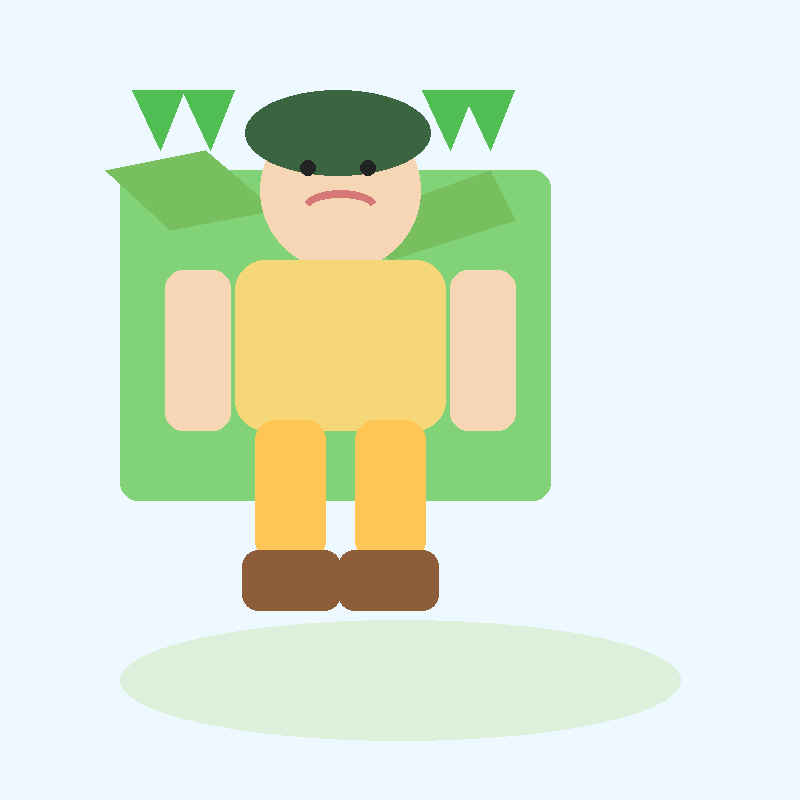
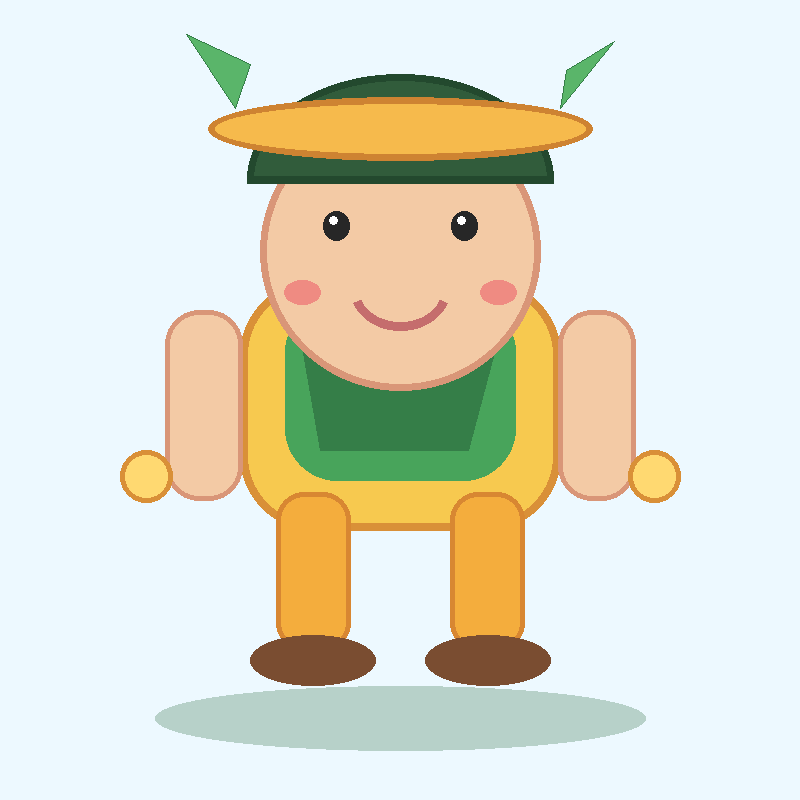
Refresh hero variants and Photoshop asset exports

diff --git a/index.html b/index.html
@@ -36,7 +36,7 @@
           <button id="backBtn" class="icon-button" aria-label="Back to home">×</button>
         </div>
         <div class="lobby-card">
-          <img src="assets/hero-transparent.png" alt="Selected farmer" />
+          <img src="assets/hero-variant.png" alt="Selected farmer alternate outfit" />
           <div>
             <p class="eyebrow">YOUR FARMER</p>
             <h3>Sprout Scout</h3>
@@ -100,6 +100,10 @@
         <article class="asset-card">
           <h4>Hero Character</h4>
           <img src="assets/hero.png" alt="Farming hero character" />
+        </article>
+        <article class="asset-card">
+          <h4>Hero Variant</h4>
+          <img src="assets/hero-variant.png" alt="Farming hero alternate outfit" />
         </article>
         <article class="asset-card">
           <h4>Gameplay Screen</h4>

diff --git a/generate_final_assets.py b/generate_final_assets.py
@@ -1,123 +1,179 @@
 from pathlib import Path
 from PIL import Image, ImageDraw
 
-root = Path(__file__).resolve().parent
-out_dir = root / 'assets'
-out_dir.mkdir(exist_ok=True)
+ROOT = Path(__file__).resolve().parent
+ASSETS = ROOT / "assets"
+ASSETS.mkdir(exist_ok=True)
+
+
+def hero_art():
+    image = Image.new("RGBA", (800, 800), (0, 0, 0, 0))
+    draw = ImageDraw.Draw(image)
+
+    draw.ellipse((155, 686, 645, 750), fill=(39, 104, 57, 70))
+    draw.rounded_rectangle((240, 280, 560, 530), radius=75, fill="#f7c94f", outline="#d99038", width=8)
+    draw.rounded_rectangle((285, 300, 515, 480), radius=52, fill="#48a45b")
+    draw.polygon([(300, 336), (380, 380), (500, 330), (468, 450), (320, 450)], fill="#357e48")
+
+    draw.rounded_rectangle((165, 310, 242, 500), radius=34, fill="#f3caa5", outline="#d99678", width=5)
+    draw.rounded_rectangle((558, 310, 635, 500), radius=34, fill="#f3caa5", outline="#d99678", width=5)
+    draw.rounded_rectangle((276, 492, 350, 650), radius=28, fill="#f4ad3d", outline="#d88732", width=5)
+    draw.rounded_rectangle((450, 492, 524, 650), radius=28, fill="#f4ad3d", outline="#d88732", width=5)
+    draw.ellipse((250, 635, 375, 685), fill="#7a4d31")
+    draw.ellipse((425, 635, 550, 685), fill="#7a4d31")
+
+    draw.ellipse((260, 112, 540, 390), fill="#f3caa5", outline="#d99678", width=7)
+    draw.pieslice((247, 74, 553, 285), 180, 360, fill="#315c3b", outline="#23492e", width=7)
+    draw.ellipse((208, 97, 592, 160), fill="#f6ba4c", outline="#ce8332", width=7)
+    draw.polygon([(235, 108), (186, 34), (250, 64)], fill="#5ab56a", outline="#357e48")
+    draw.polygon([(560, 108), (614, 41), (566, 70)], fill="#5ab56a", outline="#357e48")
+    draw.ellipse((323, 211, 349, 240), fill="#272727")
+    draw.ellipse((451, 211, 477, 240), fill="#272727")
+    draw.ellipse((329, 216, 337, 224), fill="#ffffff")
+    draw.ellipse((457, 216, 465, 224), fill="#ffffff")
+    draw.arc((350, 247, 450, 330), 20, 160, fill="#c56d6d", width=9)
+    draw.ellipse((284, 280, 320, 304), fill="#ef8b82")
+    draw.ellipse((480, 280, 516, 304), fill="#ef8b82")
+    draw.ellipse((120, 450, 172, 502), fill="#ffd971", outline="#d99038", width=5)
+    draw.ellipse((628, 450, 680, 502), fill="#ffd971", outline="#d99038", width=5)
+    return image
 
 
 def draw_hero(path):
-    img = Image.new('RGBA', (800, 800), '#edf9ff')
-    d = ImageDraw.Draw(img)
-    d.ellipse((120, 620, 680, 740), fill=(220, 240, 220, 255))
-    d.rounded_rectangle((120, 170, 550, 500), radius=18, fill=(130, 210, 120, 255))
-    d.polygon([(170, 230), (105, 170), (205, 150), (275, 210)], fill=(120, 192, 95, 255))
-    d.polygon([(350, 220), (490, 170), (515, 220), (390, 260)], fill=(120, 192, 95, 255))
-    d.ellipse((260, 110, 420, 270), fill=(247, 214, 181, 255))
-    d.ellipse((245, 90, 430, 175), fill=(58, 101, 64, 255))
-    d.ellipse((300, 160, 315, 175), fill=(35, 35, 35, 255))
-    d.ellipse((360, 160, 375, 175), fill=(35, 35, 35, 255))
-    d.arc((302, 190, 378, 225), start=200, end=340, fill=(214, 120, 120, 255), width=8)
-    d.rounded_rectangle((235, 260, 445, 430), radius=30, fill=(245, 215, 120, 255))
-    d.rounded_rectangle((165, 270, 230, 430), radius=18, fill=(247, 214, 181, 255))
-    d.rounded_rectangle((450, 270, 515, 430), radius=18, fill=(247, 214, 181, 255))
-    d.rounded_rectangle((255, 420, 325, 560), radius=20, fill=(255, 198, 86, 255))
-    d.rounded_rectangle((355, 420, 425, 560), radius=20, fill=(255, 198, 86, 255))
-    d.rounded_rectangle((242, 550, 340, 610), radius=16, fill=(141, 94, 57, 255))
-    d.rounded_rectangle((338, 550, 438, 610), radius=16, fill=(141, 94, 57, 255))
-    for x in [160, 210, 450, 490]:
-        d.polygon([(x, 150), (x - 28, 90), (x + 24, 90)], fill=(80, 190, 82, 255))
-    img.save(path)
+    image = Image.new("RGBA", (800, 800), "#edf9ff")
+    art = hero_art()
+    image.alpha_composite(art)
+    image.save(path)
+
+
+def draw_hero_variant(path):
+    image = hero_art()
+    draw = ImageDraw.Draw(image)
+    # Alternate harvest pose: raised watering can and blue apron accent.
+    draw.rounded_rectangle((544, 270, 690, 315), radius=18, fill="#f3caa5", outline="#d99678", width=6)
+    draw.rounded_rectangle((625, 210, 700, 282), radius=16, fill="#69c8ff", outline="#438fb7", width=6)
+    draw.rectangle((644, 184, 684, 218), fill="#d5f5ff", outline="#438fb7", width=5)
+    draw.line((633, 215, 600, 170), fill="#438fb7", width=9)
+    draw.rounded_rectangle((290, 312, 510, 470), radius=48, fill="#4d9dc0")
+    draw.rounded_rectangle((320, 330, 480, 455), radius=36, fill="#2e6f8c")
+    image.save(path)
 
 
 def draw_gameplay(path):
-    img = Image.new('RGBA', (1200, 800), '#dff8ff')
-    d = ImageDraw.Draw(img)
-    d.ellipse((930, 70, 1055, 200), fill=(255, 232, 138, 255))
-    for c in [(120, 110, 170, 150), (260, 140, 360, 185), (820, 130, 930, 175)]:
-        d.ellipse(c, fill=(255, 255, 255, 180))
-    d.rectangle((0, 520, 1200, 800), fill=(116, 196, 110, 255))
-    d.rounded_rectangle((60, 70, 1140, 710), radius=28, fill=(255, 255, 255, 120))
-    d.rounded_rectangle((90, 96, 350, 218), radius=18, fill=(255, 250, 244, 220))
-    d.rounded_rectangle((105, 120, 220, 200), radius=12, fill=(247, 214, 168, 255))
-    d.rounded_rectangle((228, 137, 312, 156), radius=5, fill=(205, 175, 232, 255))
-    d.rounded_rectangle((228, 165, 322, 184), radius=5, fill=(195, 240, 166, 255))
-    d.rounded_rectangle((228, 194, 305, 213), radius=5, fill=(154, 215, 255, 255))
+    image = Image.new("RGBA", (1200, 800), "#cfefff")
+    draw = ImageDraw.Draw(image)
+    draw.ellipse((990, 44, 1115, 169), fill="#ffe28a")
+    for x, y, w, h in [(90, 112, 170, 48), (300, 146, 210, 55), (860, 120, 230, 54)]:
+        draw.ellipse((x, y, x + w, y + h), fill=(255, 255, 255, 190))
+        draw.ellipse((x + 42, y - 18, x + w - 20, y + h + 18), fill=(255, 255, 255, 190))
+    draw.polygon([(0, 480), (170, 380), (390, 475), (620, 390), (850, 475), (1060, 380), (1200, 450), (1200, 800), (0, 800)], fill="#b9df83")
+    draw.rectangle((0, 535, 1200, 800), fill="#69b867")
 
-    x, y = 470, 250
-    d.ellipse((x + 85, y + 80, x + 260, y + 250), fill=(247, 214, 181, 255))
-    d.ellipse((x + 95, y + 40, x + 250, y + 150), fill=(58, 101, 64, 255))
-    d.ellipse((x + 124, y + 110, x + 138, y + 124), fill=(30, 30, 30, 255))
-    d.ellipse((x + 160, y + 110, x + 174, y + 124), fill=(30, 30, 30, 255))
-    d.arc((x + 128, y + 138, x + 170, y + 175), start=200, end=340, fill=(211, 134, 122, 255), width=8)
-    d.rounded_rectangle((x + 105, y + 220, x + 245, y + 370), radius=30, fill=(245, 215, 120, 255))
-    d.rounded_rectangle((x + 80, y + 230, x + 110, y + 440), radius=15, fill=(247, 214, 181, 255))
-    d.rounded_rectangle((x + 240, y + 230, x + 270, y + 440), radius=15, fill=(247, 214, 181, 255))
-    d.rounded_rectangle((x + 105, y + 370, x + 170, y + 470), radius=18, fill=(255, 198, 86, 255))
-    d.rounded_rectangle((x + 180, y + 370, x + 245, y + 470), radius=18, fill=(255, 198, 86, 255))
-    for px, py in [(590, 255), (760, 255), (960, 255), (1100, 270)]:
-        d.rectangle((px, py, px + 120, py + 80), fill=(112, 176, 120, 255))
-    d.rounded_rectangle((900, 330, 1060, 560), radius=16, fill=(255, 249, 238, 220))
-    d.rounded_rectangle((915, 350, 1045, 430), radius=16, fill=(215, 239, 221, 255))
-    d.ellipse((948, 385, 1012, 450), fill=(255, 215, 105, 255))
-    d.rectangle((920, 455, 1042, 474), fill=(154, 215, 255, 255))
-    d.rectangle((920, 485, 1014, 504), fill=(244, 199, 209, 255))
-    d.rectangle((920, 515, 1002, 534), fill=(194, 232, 167, 255))
-    img.save(path)
+    draw.rounded_rectangle((48, 42, 1152, 758), radius=34, fill=(255, 255, 255, 66), outline="#ffffff", width=4)
+    draw.rounded_rectangle((78, 75, 340, 235), radius=24, fill="#fff9ee", outline="#ead5b3", width=4)
+    draw.text((102, 92), "HARVEST RUN", fill="#1d6c35")
+    draw.ellipse((104, 139, 191, 226), fill="#ffd56e")
+    draw.rectangle((217, 137, 304, 155), fill="#e0b0df")
+    draw.rectangle((217, 174, 320, 192), fill="#bfe69a")
+    draw.rectangle((217, 211, 290, 229), fill="#9ad7ff")
+
+    hero = hero_art()
+    hero.thumbnail((340, 470))
+    image.alpha_composite(hero, (435, 188))
+    for px, py in [(710, 315), (875, 350), (1030, 292)]:
+        draw.rounded_rectangle((px, py, px + 120, py + 75), radius=18, fill="#8b5a35")
+        draw.ellipse((px + 22, py - 20, px + 55, py + 20), fill="#6eb35d")
+        draw.ellipse((px + 66, py - 20, px + 99, py + 20), fill="#6eb35d")
+
+    draw.rounded_rectangle((875, 495, 1080, 680), radius=22, fill="#fff9ee", outline="#ead5b3", width=4)
+    draw.text((900, 518), "MISSION", fill="#b21a5d")
+    draw.text((900, 555), "Harvest Run", fill="#1d6c35")
+    draw.text((900, 590), "Collect 10 items", fill="#5d5d5d")
+    draw.rounded_rectangle((900, 625, 1048, 654), radius=12, fill="#f6c95a")
+    draw.text((929, 631), "START", fill="#543a24")
+    image.save(path)
 
 
 def draw_background(path):
-    img = Image.new('RGBA', (1400, 800), '#dff9ff')
-    d = ImageDraw.Draw(img)
-    d.ellipse((1150, 70, 1290, 210), fill=(255, 233, 154, 255))
-    for x, y, w, h in [(130, 120, 200, 60), (300, 140, 260, 70), (980, 150, 230, 70)]:
-        d.ellipse((x, y, x + w, y + h), fill=(255, 255, 255, 200))
-        d.ellipse((x + 40, y - 18, x + w + 30, y + 60), fill=(255, 255, 255, 200))
-    d.polygon([(0, 520), (180, 420), (420, 520), (580, 440), (830, 520), (1030, 420), (1400, 520), (1400, 800), (0, 800)], fill=(190, 230, 136, 255))
-    d.polygon([(0, 640), (180, 560), (420, 620), (760, 700), (1000, 630), (1400, 520), (1400, 800), (0, 800)], fill=(120, 185, 110, 255))
-    for x in [160, 420, 640, 930, 1200]:
-        d.rectangle((x, 620, x + 80, 710), fill=(141, 94, 57, 255))
-        d.rectangle((x - 20, 560, x + 100, 620), fill=(120, 185, 110, 255))
-        for i in range(5):
-            d.line((x + 10 + i * 15, 610, x + 10 + i * 15, 560), fill=(93, 145, 73, 255), width=6)
-    for x in [150, 760]:
-        d.rectangle((x, 350, x + 190, 530), fill=(252, 232, 210, 255))
-        d.polygon([(x, 350), (x + 95, 280), (x + 190, 350)], fill=(122, 185, 84, 255))
-        for bx in [x + 40, x + 120]:
-            d.rectangle((bx, 430, bx + 30, 500), fill=(140, 207, 255, 255))
-    img.save(path)
+    image = Image.new("RGBA", (1400, 800), "#d9f5ff")
+    draw = ImageDraw.Draw(image)
+    draw.ellipse((1135, 62, 1285, 212), fill="#ffe49a")
+    for x, y, w, h in [(100, 108, 180, 55), (340, 145, 235, 64), (930, 122, 250, 58)]:
+        draw.ellipse((x, y, x + w, y + h), fill=(255, 255, 255, 185))
+        draw.ellipse((x + 35, y - 20, x + w - 25, y + h + 20), fill=(255, 255, 255, 185))
+    draw.polygon([(0, 475), (180, 350), (380, 470), (600, 340), (830, 460), (1050, 350), (1400, 470), (1400, 800), (0, 800)], fill="#c0e58d")
+    draw.polygon([(0, 615), (210, 520), (440, 595), (740, 500), (980, 610), (1230, 510), (1400, 555), (1400, 800), (0, 800)], fill="#76be6a")
+    draw.rectangle((0, 690, 1400, 800), fill="#559e5b")
+
+    for x in [150, 920]:
+        draw.rectangle((x, 300, x + 190, 500), fill="#fff1d7", outline="#d39158", width=6)
+        draw.polygon([(x - 18, 305), (x + 95, 220), (x + 208, 305)], fill="#d56e54", outline="#9c4b43")
+        for bx in [x + 35, x + 120]:
+            draw.rounded_rectangle((bx, 380, bx + 40, 450), radius=5, fill="#9ad7ff", outline="#467b81", width=4)
+        draw.rectangle((x + 80, 428, x + 112, 500), fill="#a06b3d")
+
+    for x in [80, 330, 585, 820, 1080, 1280]:
+        draw.ellipse((x, 594, x + 60, 660), fill="#6cc260")
+        draw.ellipse((x + 40, 580, x + 108, 660), fill="#77cc68")
+        draw.line((x + 42, 650, x + 42, 720), fill="#4d8f48", width=8)
+        draw.line((x + 70, 650, x + 70, 720), fill="#4d8f48", width=8)
+    image.save(path)
 
 
 def draw_items(path):
-    img = Image.new('RGBA', (1200, 500), '#f9faf1')
-    d = ImageDraw.Draw(img)
-    for x, y, t in [(90, 0, 'carrot'), (350, 0, 'tomato'), (610, 0, 'hammer'), (870, 0, 'water')]:
-        d.ellipse((x, y, x + 220, y + 220), fill=(234, 247, 234, 255))
-        if t == 'carrot':
-            d.polygon([(x + 110, y + 30), (x + 150, y + 130), (x + 110, y + 200), (x + 70, y + 130)], fill=(255, 143, 79, 255))
-            d.line((x + 110, y + 70, x + 110, y + 180), fill=(80, 180, 90, 255), width=10)
-            d.line((x + 75, y + 100, x + 145, y + 110), fill=(80, 180, 90, 255), width=10)
-        elif t == 'tomato':
-            d.ellipse((x + 60, y + 40, x + 160, y + 160), fill=(239, 90, 81, 255))
-            d.line((x + 110, y + 20, x + 110, y + 170), fill=(80, 180, 90, 255), width=8)
-        elif t == 'hammer':
-            d.rectangle((x + 80, y + 80, x + 140, y + 170), fill=(199, 165, 74, 255))
-            d.rectangle((x + 120, y + 70, x + 160, y + 150), fill=(150, 120, 50, 255))
-            d.line((x + 100, y + 170, x + 110, y + 250), fill=(90, 80, 70, 255), width=12)
-        elif t == 'water':
-            d.rounded_rectangle((x + 75, y + 60, x + 145, y + 200), radius=18, fill=(110, 200, 255, 255))
-            d.rectangle((x + 95, y + 25, x + 125, y + 60), fill=(214, 245, 255, 255))
-    img.save(path)
+    image = Image.new("RGBA", (1200, 500), "#f9faf1")
+    draw = ImageDraw.Draw(image)
+    for x, label, color in [(100, "CARROT", "#ff984c"), (360, "TOMATO", "#ef5a51"), (620, "HAMMER", "#c7a54a"), (880, "WATER", "#69c8ff")]:
+        draw.ellipse((x, 48, x + 210, 258), fill="#e8f6e8", outline="#c9e6c3", width=5)
+        if label == "CARROT":
+            draw.polygon([(x + 105, 75), (x + 145, 170), (x + 105, 235), (x + 65, 170)], fill=color)
+            draw.line((x + 105, 105, x + 105, 215), fill="#4ea85a", width=12)
+            draw.line((x + 75, 130, x + 137, 145), fill="#4ea85a", width=10)
+        elif label == "TOMATO":
+            draw.ellipse((x + 62, 84, x + 164, 188), fill=color)
+            draw.line((x + 113, 65, x + 113, 96), fill="#4ea85a", width=10)
+        elif label == "HAMMER":
+            draw.rectangle((x + 78, 110, x + 140, 190), fill="#c7a54a")
+            draw.rectangle((x + 126, 90, x + 180, 140), fill="#8a5d2e")
+            draw.line((x + 108, 185, x + 108, 245), fill="#8a5d2e", width=14)
+        else:
+            draw.rounded_rectangle((x + 70, 100, x + 155, 230), radius=18, fill=color)
+            draw.rectangle((x + 96, 72, x + 130, 105), fill="#d5f5ff")
+        draw.text((x + 46, 300), label, fill="#1d6c35")
+    image.save(path)
+
+
+def draw_transparent_collectible(path, kind):
+    image = Image.new("RGBA", (360, 360), (0, 0, 0, 0))
+    draw = ImageDraw.Draw(image)
+    draw.ellipse((25, 275, 335, 335), fill=(39, 104, 57, 60))
+    if kind == "carrot":
+        draw.polygon([(180, 62), (246, 194), (180, 280), (114, 194)], fill="#ff984c", outline="#d96d35")
+        draw.line((180, 96, 180, 242), fill="#4ea85a", width=16)
+        draw.line((130, 132, 225, 153), fill="#4ea85a", width=13)
+    elif kind == "tomato":
+        draw.ellipse((82, 76, 278, 275), fill="#ef5a51", outline="#c74243", width=7)
+        draw.polygon([(180, 68), (205, 101), (246, 90), (224, 130), (180, 112), (137, 130), (114, 90), (155, 101)], fill="#4ea85a")
+    elif kind == "hammer":
+        draw.rounded_rectangle((132, 95, 224, 220), radius=16, fill="#c7a54a", outline="#8a5d2e", width=7)
+        draw.rounded_rectangle((198, 65, 292, 140), radius=18, fill="#8a5d2e", outline="#5d3d29", width=7)
+        draw.line((178, 207, 178, 292), fill="#8a5d2e", width=18)
+    else:
+        draw.rounded_rectangle((112, 82, 248, 284), radius=30, fill="#69c8ff", outline="#438fb7", width=8)
+        draw.rectangle((150, 38, 210, 88), fill="#d5f5ff", outline="#438fb7", width=7)
+        draw.ellipse((150, 132, 185, 167), fill="#ffffff", outline="#438fb7", width=5)
+    image.save(path)
 
 
 def main():
-    draw_hero(out_dir / 'hero.png')
-    draw_gameplay(out_dir / 'gameplay.png')
-    draw_background(out_dir / 'background.png')
-    draw_items(out_dir / 'items.png')
-    print('Created assets:')
-    for p in sorted(out_dir.iterdir()):
-        print(' -', p.name)
+    draw_hero(ASSETS / "hero.png")
+    draw_hero_variant(ASSETS / "hero-variant.png")
+    draw_gameplay(ASSETS / "gameplay.png")
+    draw_background(ASSETS / "background.png")
+    draw_items(ASSETS / "items.png")
+    for kind in ["carrot", "tomato", "hammer", "watering-can"]:
+        draw_transparent_collectible(ASSETS / f"{kind}.png", kind)
+    print("Regenerated hero, gameplay lobby, farm background, and collectibles.")
 
 
 main()

diff --git a/create_submission_assets.py b/create_submission_assets.py
@@ -46,11 +46,24 @@ def create_presentation_sheet():
         x1, y1, x2, y2 = box
         draw.rounded_rectangle(box, radius=24, fill="white", outline="#d9e7d0", width=3)
         draw.text((x1 + 22, y1 + 18), label, fill="#1d6c35", font=font(23, True))
-        image = Image.open(path).convert("RGBA")
-        image.thumbnail((x2 - x1 - 40, y2 - y1 - 80))
-        ix = x1 + (x2 - x1 - image.width) // 2
-        iy = y1 + 64 + (y2 - y1 - 80 - image.height) // 2
-        sheet.paste(image, (ix, iy), image)
+        if label.startswith("01"):
+            images = [
+                Image.open(ASSETS / "hero-transparent.png").convert("RGBA"),
+                Image.open(ASSETS / "hero-variant.png").convert("RGBA"),
+            ]
+            for image_index, image in enumerate(images):
+                image.thumbnail((260, y2 - y1 - 100))
+                ix = x1 + 85 + image_index * 285
+                iy = y1 + 72 + (y2 - y1 - 90 - image.height) // 2
+                sheet.paste(image, (ix, iy), image)
+            draw.text((x1 + 120, y2 - 42), "BASE HERO", fill="#5d5d5d", font=font(16, True))
+            draw.text((x1 + 405, y2 - 42), "BLUE APRON VARIANT", fill="#5d5d5d", font=font(16, True))
+        else:
+            image = Image.open(path).convert("RGBA")
+            image.thumbnail((x2 - x1 - 40, y2 - y1 - 80))
+            ix = x1 + (x2 - x1 - image.width) // 2
+            iy = y1 + 64 + (y2 - y1 - 80 - image.height) // 2
+            sheet.paste(image, (ix, iy), image)
 
     sheet.save(ROOT / "presentation-sheet.png")
 

diff --git a/README.md b/README.md
@@ -29,6 +29,8 @@ screen for a more natural phone play experience.
 - `style.css` - responsive visual styling
 - `game.js` - game loop, movement, collectibles, scoring, and timer
 - `assets/` - hero, gameplay, environment, and collectible PNG assets
+- `assets/hero-variant.png` - alternate blue-apron hero outfit/pose used in the lobby
+- `assets/carrot.png`, `tomato.png`, `hammer.png`, `watering-can.png` - standalone transparent collectible exports for Photopea
 - `presentation-sheet.png` - one-page presentation of all four required assets
 - `hero-before-after.png` - cleanup comparison for the hero asset
 - `PROCESS-NOTES.md` - assessment process and design rationale

diff --git a/PROCESS-NOTES.md b/PROCESS-NOTES.md
@@ -12,6 +12,8 @@ blues, and a pink accent for GameBerry-style energy.
 
 1. **Hero / variant:** Sprout Scout is the farmer hero. The hero is reused in
    the home screen and lobby so the character has a clear identity before play.
+   The blue-apron variant adds a watering-can pose for the required outfit/pose
+   variation. Both are exported as transparent PNGs for Photopea compositing.
 2. **Gameplay / lobby:** The gameplay composition shows the hero, farm world,
    inventory panel, and UI hierarchy. The live lobby screen then places the hero
    and mission card in the order a mobile game needs.
